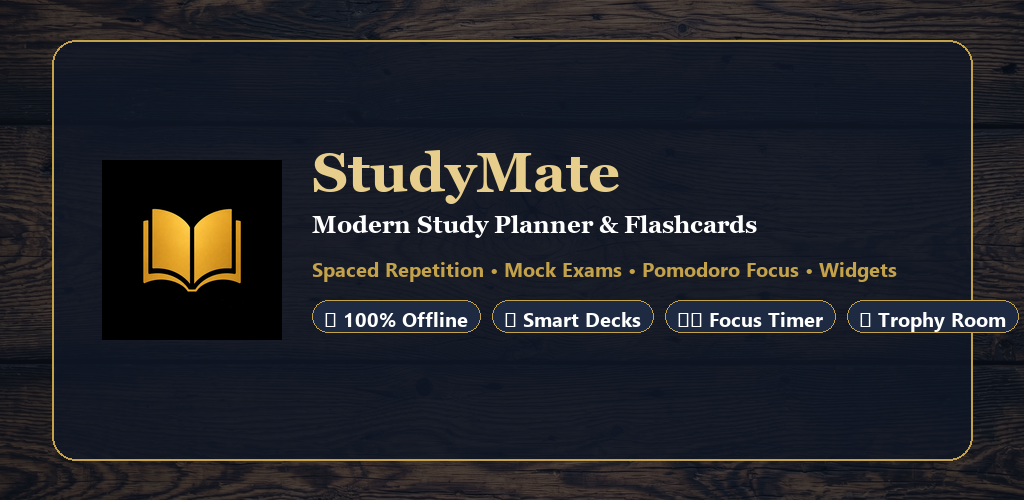
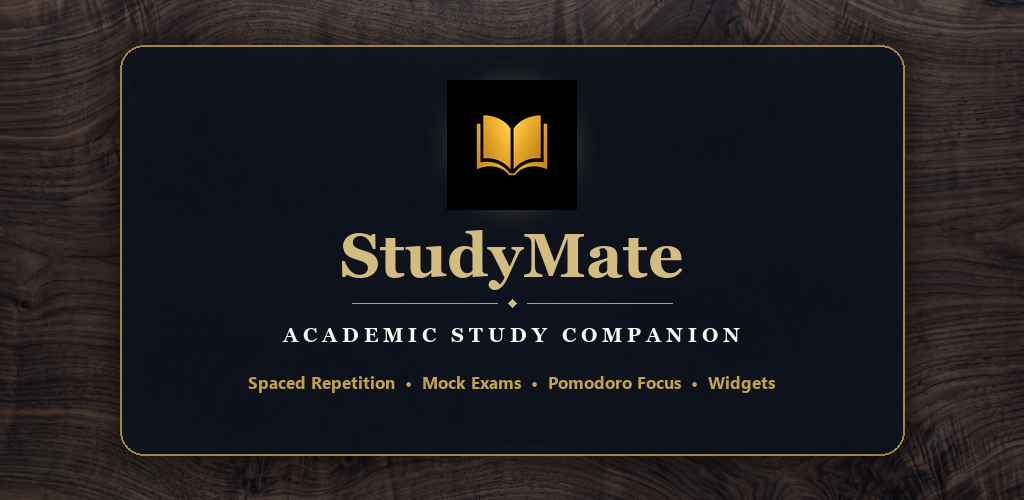
docs(store): redesign feature graphic with clean dark academic glass card

diff --git a/scripts/generate_clean_feature_graphic.py b/scripts/generate_clean_feature_graphic.py
@@ -1,0 +1,107 @@
+import os
+from PIL import Image, ImageDraw, ImageFont, ImageFilter
+
+out_path = 'art/play-store/feature_graphic_1024x500.png'
+bg_path = 'art/backgrounds-original/bg_login.png'
+
+# 1. Base wood texture
+if os.path.exists(bg_path):
+    bg = Image.open(bg_path).convert('RGB')
+    w, h = bg.size
+    target_ratio = 1024 / 500
+    if w / h > target_ratio:
+        new_w = int(h * target_ratio)
+        left = (w - new_w) // 2
+        bg = bg.crop((left, 0, left + new_w, h))
+    else:
+        new_h = int(w / target_ratio)
+        top = (h - new_h) // 2
+        bg = bg.crop((0, top, w, top + new_h))
+    bg = bg.resize((1024, 500), Image.Resampling.LANCZOS)
+else:
+    bg = Image.new('RGB', (1024, 500), (15, 23, 42))
+
+# 2. Dark vignette / overlay (matches app's bg_wood_overlay)
+overlay = Image.new('RGBA', (1024, 500), (10, 16, 28, 140))
+bg.paste(overlay, (0, 0), overlay)
+
+# 3. Frosted Dark Glass Card (matches app's MaterialCardView #59000000 with #99C4A24A border)
+card_layer = Image.new('RGBA', (1024, 500), (0, 0, 0, 0))
+cdraw = ImageDraw.Draw(card_layer)
+
+card_margin_x = 120
+card_margin_y = 45
+card_w = 1024 - (2 * card_margin_x) # 784 px wide
+card_h = 500 - (2 * card_margin_y)   # 410 px tall
+
+# Soft outer shadow for depth
+shadow_layer = Image.new('RGBA', (1024, 500), (0, 0, 0, 0))
+sdraw = ImageDraw.Draw(shadow_layer)
+sdraw.rounded_rectangle([card_margin_x - 4, card_margin_y - 4, card_margin_x + card_w + 4, card_margin_y + card_h + 8], radius=28, fill=(0, 0, 0, 160))
+shadow_layer = shadow_layer.filter(ImageFilter.GaussianBlur(16))
+bg.paste(shadow_layer, (0, 0), shadow_layer)
+
+# Glass card body and gold border
+cdraw.rounded_rectangle(
+    [card_margin_x, card_margin_y, card_margin_x + card_w, card_margin_y + card_h],
+    radius=24,
+    fill=(12, 18, 30, 215),
+    outline=(196, 162, 74, 200),
+    width=2
+)
+bg.paste(card_layer, (0, 0), card_layer)
+
+# 4. Gold Book Icon
+icon_path = 'app/src/main/res/mipmap-xxxhdpi/ic_launcher.png'
+if os.path.exists(icon_path):
+    icon = Image.open(icon_path).convert('RGBA')
+    icon_sz = 130
+    icon_resized = icon.resize((icon_sz, icon_sz), Image.Resampling.LANCZOS)
+    
+    # Glow behind icon
+    glow = Image.new('RGBA', (icon_sz + 40, icon_sz + 40), (0, 0, 0, 0))
+    gdraw = ImageDraw.Draw(glow)
+    gdraw.ellipse([10, 10, icon_sz + 30, icon_sz + 30], fill=(212, 188, 126, 45))
+    glow = glow.filter(ImageFilter.GaussianBlur(12))
+    
+    icon_cx = 1024 // 2
+    icon_y = card_margin_y + 35
+    bg.paste(glow, (icon_cx - (icon_sz + 40) // 2, icon_y - 20), glow)
+    bg.paste(icon_resized, (icon_cx - icon_sz // 2, icon_y), icon_resized)
+
+# 5. Serif Typography (StudyMate branding)
+font_title = ImageFont.truetype('C:/Windows/Fonts/georgiab.ttf', 62)
+font_sub = ImageFont.truetype('C:/Windows/Fonts/georgiab.ttf', 20)
+font_features = ImageFont.truetype('C:/Windows/Fonts/segoeuib.ttf', 17)
+
+draw = ImageDraw.Draw(bg)
+
+# Title: StudyMate
+title_text = "StudyMate"
+t_bbox = draw.textbbox((0, 0), title_text, font=font_title)
+t_w = t_bbox[2] - t_bbox[0]
+draw.text(((1024 - t_w) // 2, card_margin_y + 175), title_text, font=font_title, fill=(212, 188, 126)) # #D4BC7E
+
+# Thin gold ornamental divider
+div_y = card_margin_y + 258
+div_half_len = 160
+cx = 1024 // 2
+draw.line([(cx - div_half_len, div_y), (cx - 15, div_y)], fill=(196, 162, 74, 150), width=1)
+draw.line([(cx + 15, div_y), (cx + div_half_len, div_y)], fill=(196, 162, 74, 150), width=1)
+# Center diamond
+draw.polygon([(cx, div_y - 4), (cx + 4, div_y), (cx, div_y + 4), (cx - 4, div_y)], fill=(212, 188, 126))
+
+# Subtitle: Tracked Uppercase
+sub_text = "A C A D E M I C   S T U D Y   C O M P A N I O N"
+s_bbox = draw.textbbox((0, 0), sub_text, font=font_sub)
+s_w = s_bbox[2] - s_bbox[0]
+draw.text(((1024 - s_w) // 2, card_margin_y + 278), sub_text, font=font_sub, fill=(250, 248, 245)) # #FAF8F5
+
+# Minimal feature bar
+features_text = "Spaced Repetition  •  Mock Exams  •  Pomodoro Focus  •  Widgets"
+f_bbox = draw.textbbox((0, 0), features_text, font=font_features)
+f_w = f_bbox[2] - f_bbox[0]
+draw.text(((1024 - f_w) // 2, card_margin_y + 325), features_text, font=font_features, fill=(196, 162, 74)) # #C4A24A
+
+bg.save(out_path, 'PNG')
+print(f"Generated clean Feature Graphic at: {out_path} ({bg.size})")
